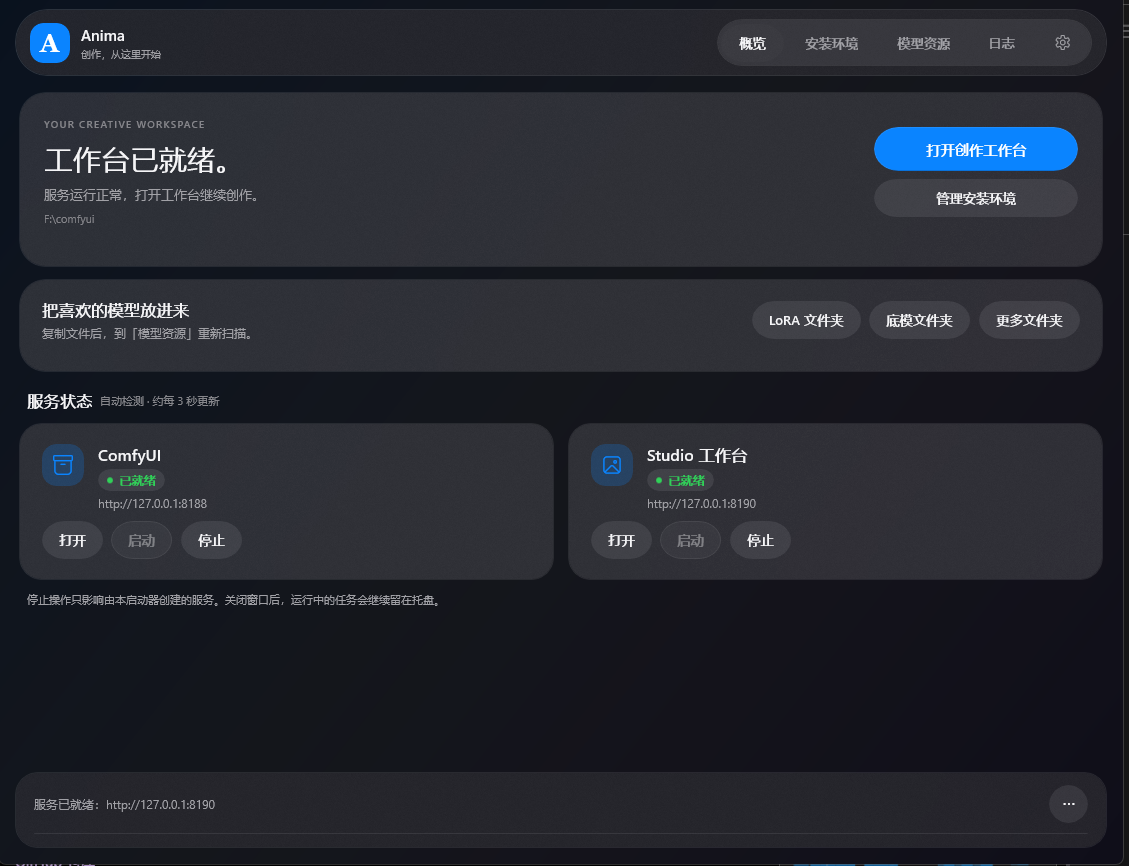
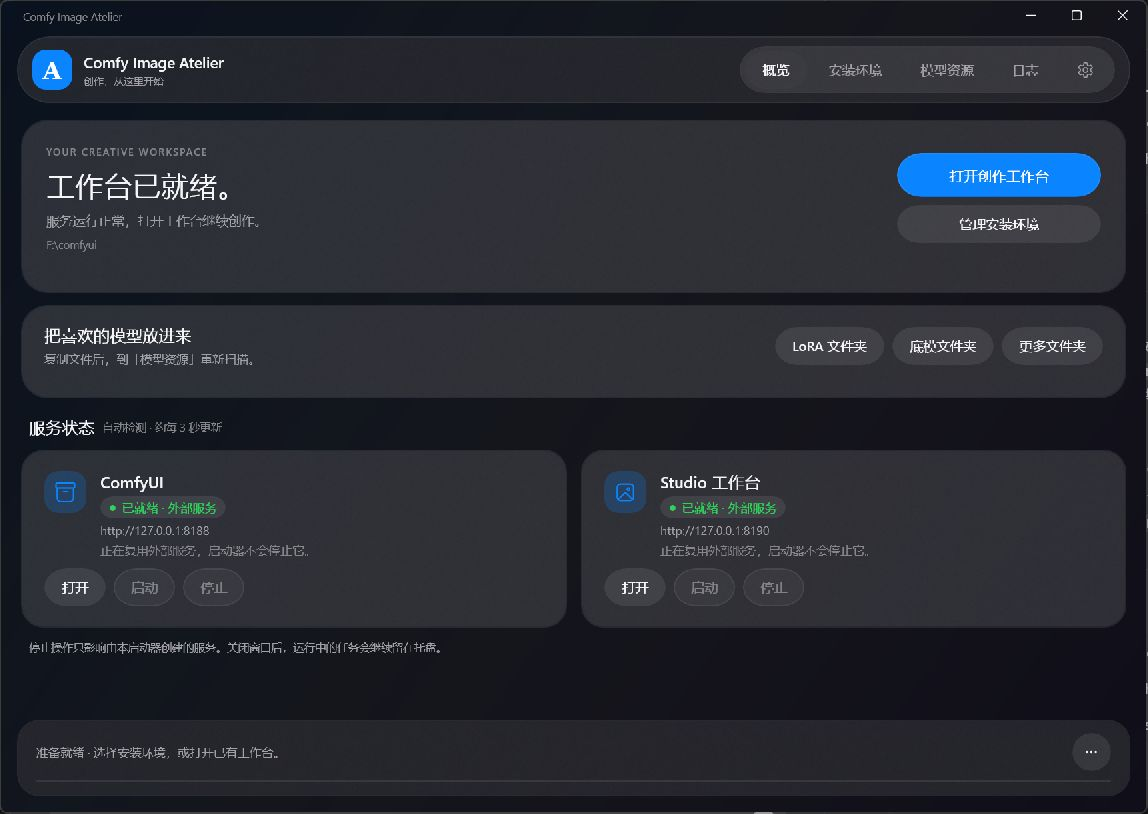
docs: refresh README screenshots for Comfy Image Atelier 1.5.0 [skip ci]

diff --git a/README.md b/README.md
@@ -19,7 +19,7 @@
 
 ![随机工作台：左侧控制人物、词池与生成参数，右侧浏览生成作品](docs/readme/random-workbench.jpg)
 
-<p align="center"><sub>界面中的作品、模型、LoRA 与预设为本机使用示例；安装包不包含截图中的全部资源。</sub></p>
+<p align="center"><sub>界面截图更新于 Comfy Image Atelier 1.5.0。作品、模型、LoRA 与预设为本机使用示例；安装包不包含截图中的全部资源。</sub></p>
 
 **固定你喜欢的角色与风格，让动作、服装和场景带来新的可能；抽到满意的图，再把它变成下一次创作的起点。**
 
